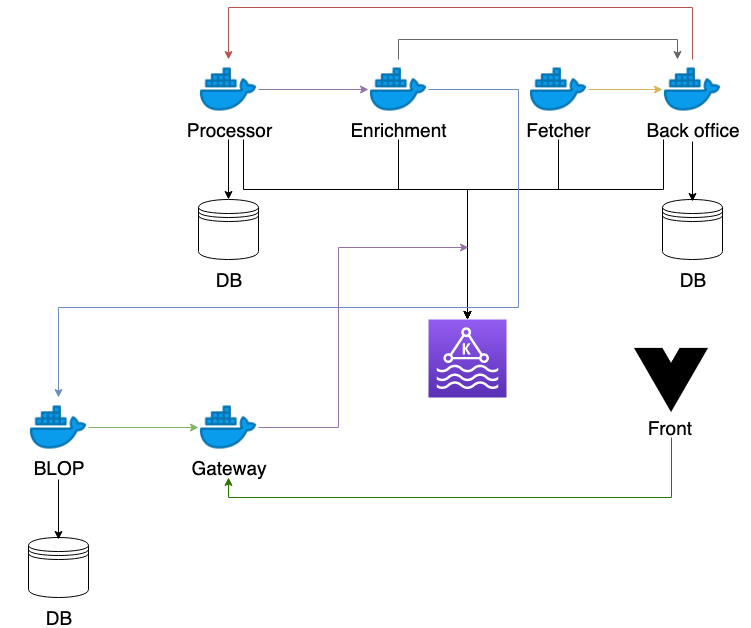
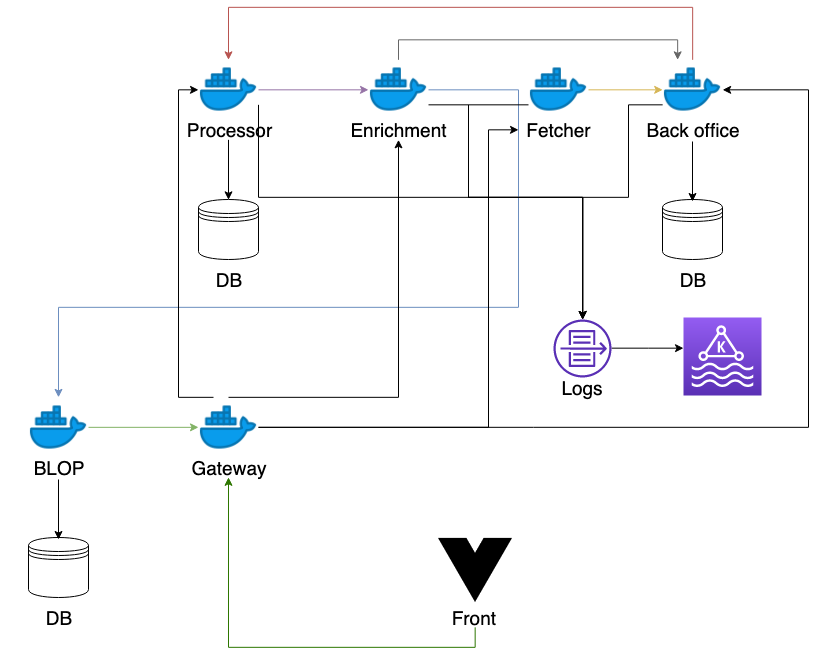
Add more stuff.

diff --git a/README.md b/README.md
@@ -32,6 +32,10 @@ us to communicate with the other services.
     * Manage downloaded files, manually upload files for processing 
     * Watch logs from other services
     * Fix uploaded files
+* Kafka - give us the option to notify services of events that occurred in other 
+services.
+* Logs - Allow us to log events which occurred in service: a file has been 
+processed, file downloaded.
 
 
 ### Pre requirements:
